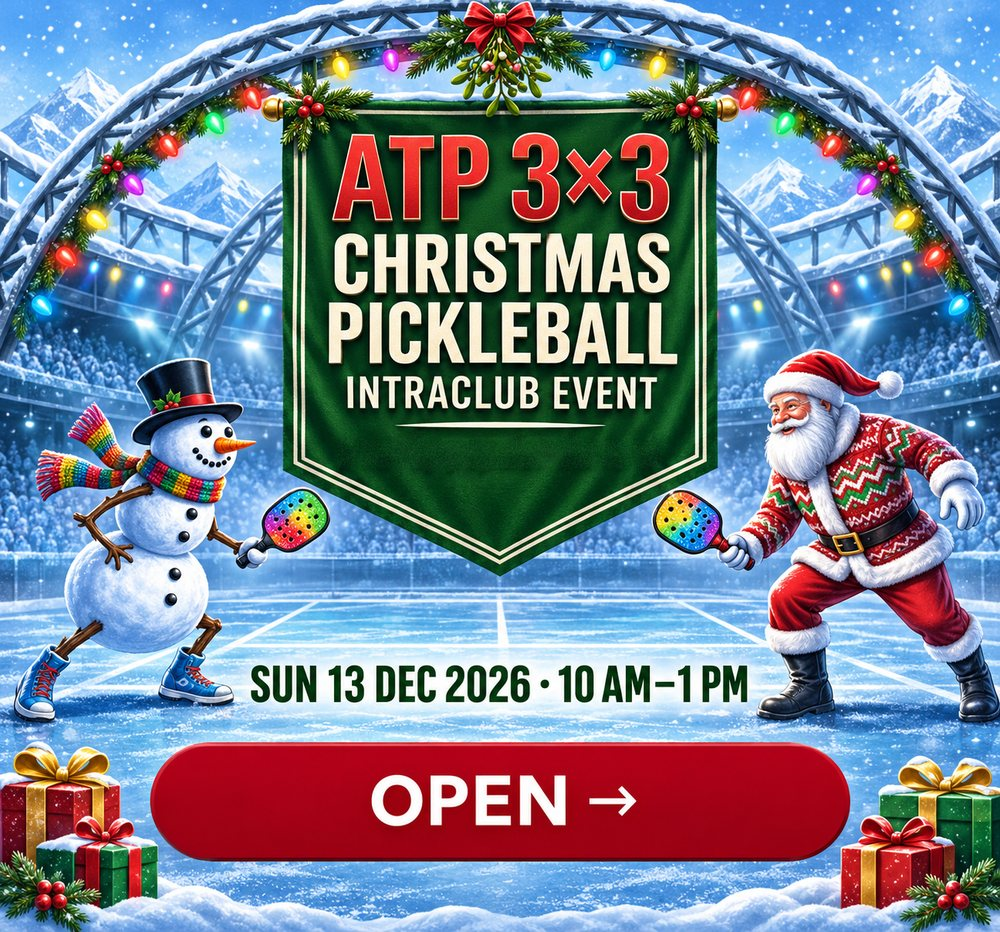
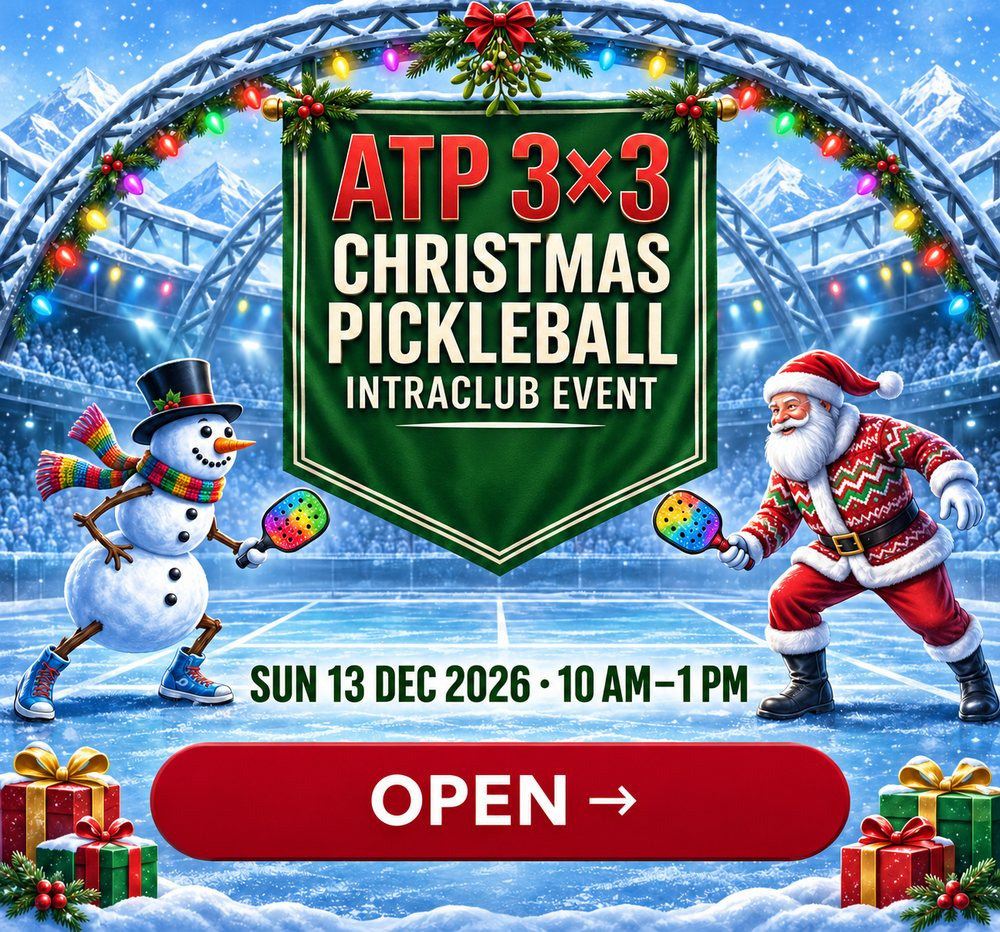
Add files via upload

diff --git a/sw.js b/sw.js
@@ -2,7 +2,7 @@
 // Network-first: people always get the latest events list when online,
 // and the last copy they saw if they're offline at the courts.
 // Bump VERSION if you ever need to force-clear the cache.
-const VERSION = "atp-events-v19";
+const VERSION = "atp-events-v20";
 const CORE = ["./", "index.html", "manifest.json", "icons/icon-192.png", "icons/icon-512.png", "icons/logo.png", "icons/dural.png", "icons/ps.png", "icons/dupr-blue.png", "icons/dupr-white.png"];
 
 self.addEventListener("install", (e) => {
